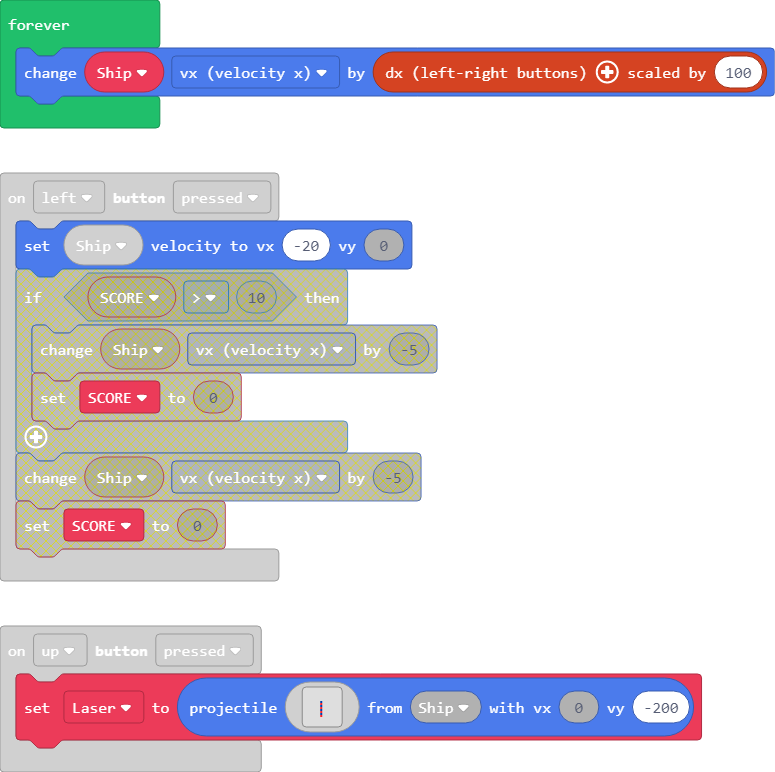
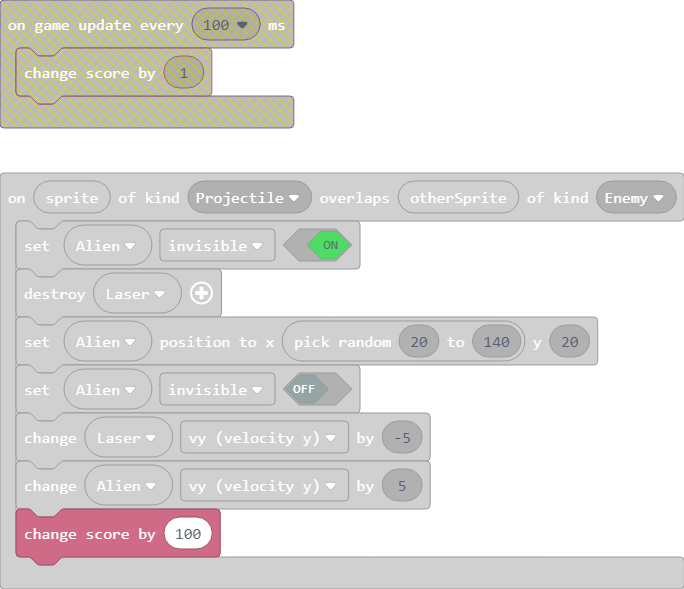
Score gained on hitting enemy

diff --git a/main.ts b/main.ts
@@ -14,6 +14,7 @@ sprites.onOverlap(SpriteKind.Projectile, SpriteKind.Enemy, function (sprite, oth
     Alien.setFlag(SpriteFlag.Invisible, false)
     Laser.vy += -5
     Alien.vy += 5
+    info.changeScoreBy(100)
 })
 controller.A.onEvent(ControllerButtonEvent.Pressed, function () {
     scene.setBackgroundImage(img`
@@ -342,9 +343,6 @@ Ship.setFlag(SpriteFlag.StayInScreen, true)
 Ship.setFlag(SpriteFlag.Invisible, true)
 Alien.setFlag(SpriteFlag.Invisible, true)
 Alien.setFlag(SpriteFlag.StayInScreen, false)
-game.onUpdateInterval(100, function () {
-    info.changeScoreBy(1)
-})
 game.onUpdateInterval(2000, function () {
     SCORE += 1
 })
